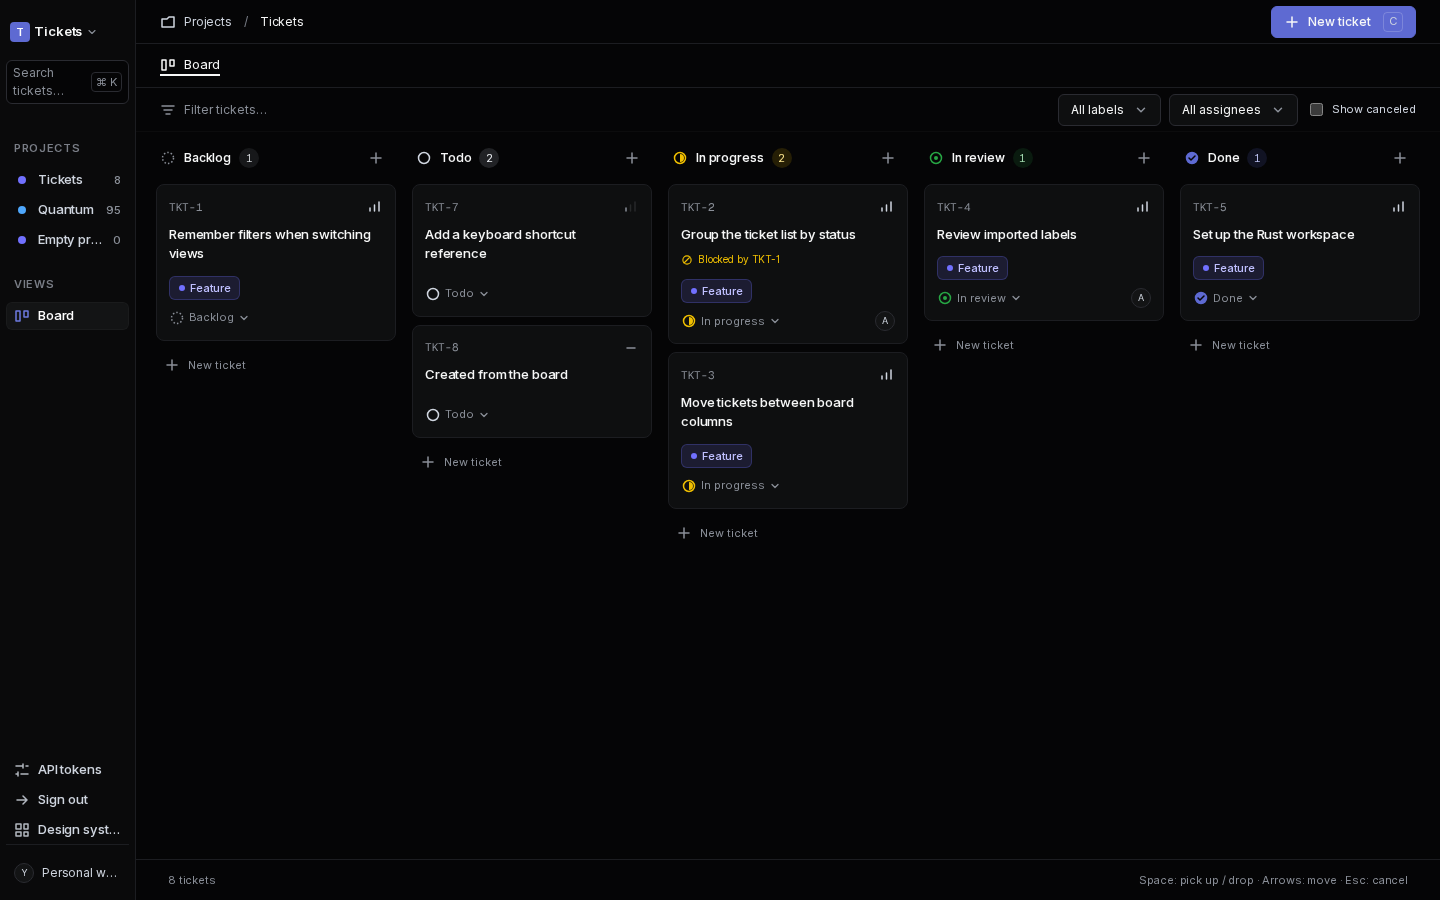
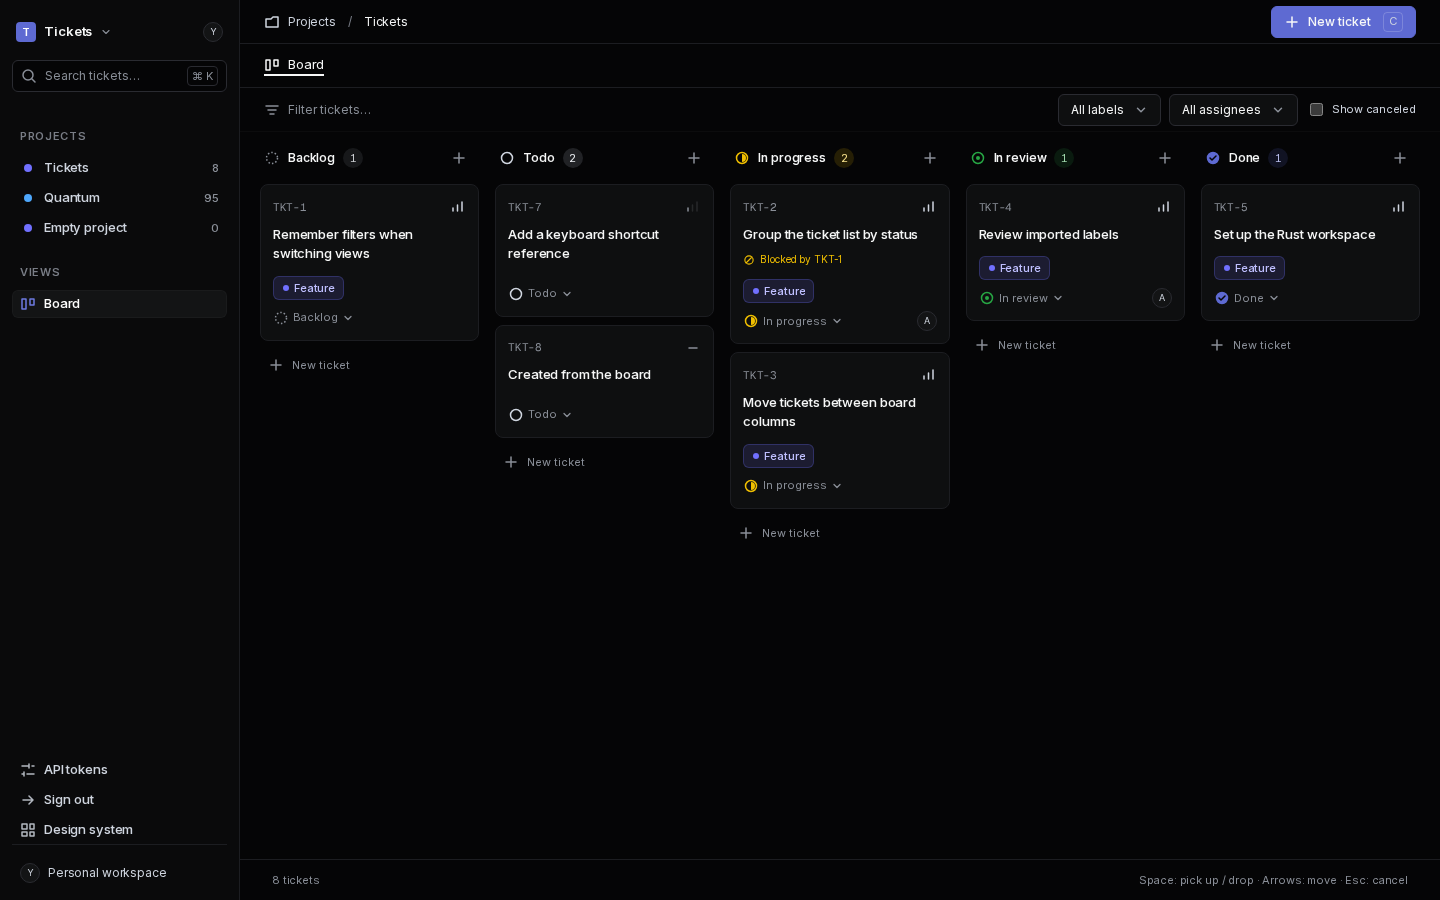
fix(board): keep 240px sidebar and fit five columns at 1440

diff --git a/crates/web/style.css b/crates/web/style.css
@@ -337,18 +337,7 @@ time { color: var(--text-muted); font-size: var(--text-xs); }
 .api-ticket .label-chip span { overflow: hidden; text-overflow: ellipsis; }
 
 .api-board { display: flex; gap: 16px; }
-.api-board .board-column { flex: 1 0 240px; min-width: 240px; }
+/* Five columns fit beside the 240px sidebar at 1440px; narrower viewports scroll. */
+.api-board .board-column { flex: 1 0 216px; min-width: 216px; }
 .canceled-toggle { display: flex; align-items: center; gap: 6px; color: var(--text-secondary); white-space: nowrap; font-size: var(--text-xs); }
 .board-filters select { width: auto; height: 32px; font-size: var(--text-sm); }
-/* Five 240px columns + four 16px gaps + 40px padding need 1304px. */
-@media (min-width: 1440px) and (max-width: 1543px) {
-  .app-shell:has(.api-board) { grid-template-columns: minmax(0, 1fr) 1304px; }
-  .app-shell:has(.api-board) .sidebar { padding-inline: 6px; }
-  .app-shell:has(.api-board) .sidebar-account span,
-  .app-shell:has(.api-board) .nav-item > span:not(.project-dot):not(.nav-count) { overflow: hidden; text-overflow: ellipsis; white-space: nowrap; }
-  .app-shell:has(.api-board) .search-trigger { display: grid; grid-template-columns: minmax(0, 1fr) auto; gap: 4px; height: 44px; padding-inline: 6px; text-align: left; }
-  .app-shell:has(.api-board) .search-trigger > .icon { display: none; }
-  .app-shell:has(.api-board) .search-trigger span { white-space: normal; }
-  .app-shell:has(.api-board) .workspace > .avatar { display: none; }
-  .app-shell:has(.api-board) .workspace-switcher { gap: 4px; }
-}
